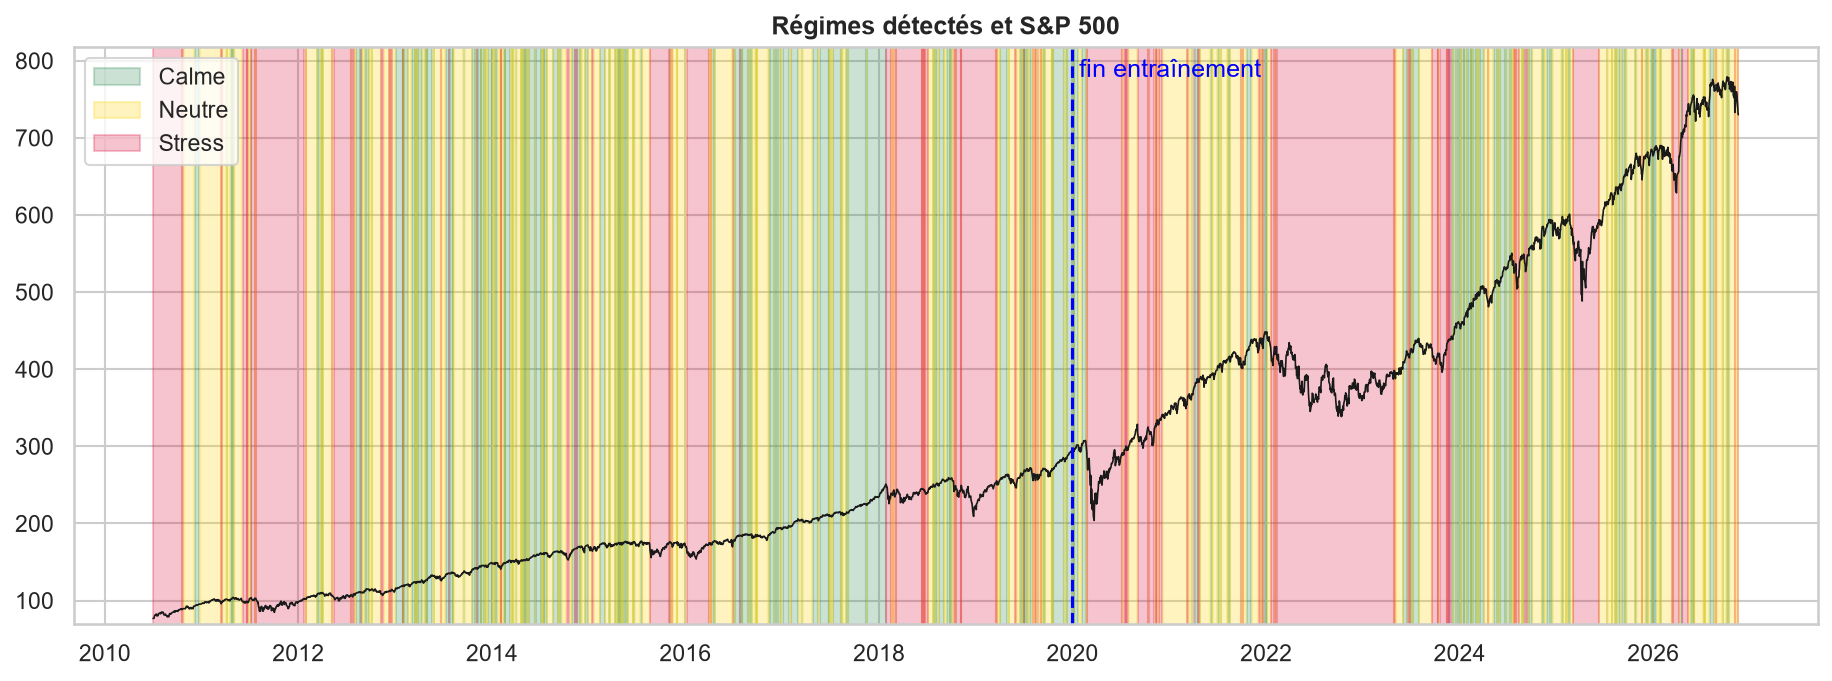
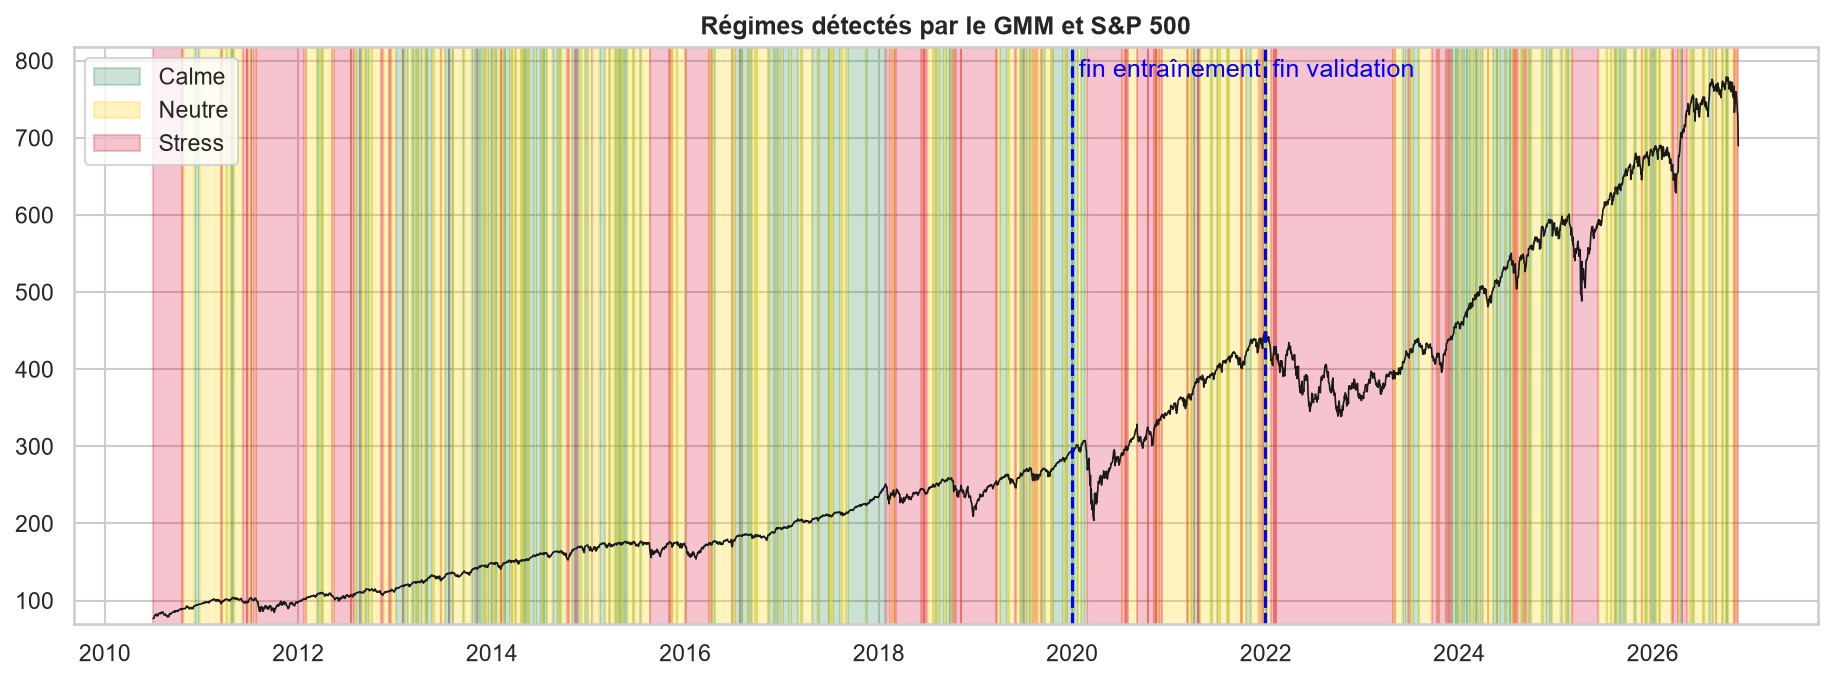
Notebook v4 : section 5a agent Regime (4 familles de clustering, indices, dendrogramme, description, validation economique, transitions)

Changed region(s): [[0.1867, 0.0, 0.9645, 0.9251], [0.7778, 0.9559, 0.809, 0.9868]]

diff --git a/tools/sections/s05_regime_a.py b/tools/sections/s05_regime_a.py
@@ -1,0 +1,170 @@
+from cellules import code, md
+
+CELLS = [
+md(r"""
+## 5. Agent Régime et Agent Alerte – apprentissage non supervisé
+
+### 5.1 Objectif et variables
+L'agent Régime classe chaque journée de marché en **régimes** (Calme / Neutre / Stress) **sans étiquette** : c'est un problème de **clustering** (cours 2). L'état du marché à la date *t* est décrit par 5 variables **stationnaires** :
+- rendement du S&P 500 sur 1 mois ;
+- log-volatilité réalisée du S&P 500 sur 1 mois ;
+- drawdown du S&P 500 (écart au plus haut sur 1 an) ;
+- log du VIX (volatilité implicite) ;
+- variation sur 3 mois du spread de crédit Baa − Trésor.
+
+**Pourquoi des variables stationnaires** : la version 1 du projet utilisait des niveaux (pente de courbe, spread). La courbe des taux s'est inversée de 2022 à 2024, un niveau jamais vu à l'entraînement, et le modèle classait alors 91 % du test en « Stress ». Les logarithmes et les variations restent dans la plage de l'entraînement.
+
+Les modèles sont ajustés sur **2011-2019 uniquement**, après standardisation apprise sur cette période, puis appliqués date par date (filtrage, sans regarder le futur).
+
+### 5.2 Les quatre familles de clustering du cours
+| Famille | Méthode | Principe | Nombre de groupes |
+|---|---|---|---|
+| Partition | **K-means** | minimise l'inertie intra-classe $J=\frac1n\sum_i\lVert x_i-\mu_{c^{(i)}}\rVert^2$ | fixé (coude, silhouette) |
+| Hiérarchique | **CAH, critère de Ward** | fusionne à chaque étape les deux groupes dont la fusion augmente le moins l'inertie intra : $\frac{n_a n_b}{n_a+n_b}d^2(\mu_a,\mu_b)$ | choisi en coupant le dendrogramme |
+| Densité | **DBSCAN** | un groupe = une zone dense ; les points isolés sont du **bruit** | déterminé par ε et min_samples |
+| Probabiliste | **Mélange gaussien (GMM)** estimé par **EM** | $p(x)=\sum_k\pi_k\,\mathcal N(x;\mu_k,\Sigma_k)$ ; maximise la log-vraisemblance | fixé (critère BIC) |
+
+**Règle fixée à l'avance** : l'agent Régime doit fournir des **probabilités d'appartenance** $\gamma_{ik}$ (affichées dans l'application, et réutilisées comme variables en 5.5). Seul le GMM en produit : c'est donc lui qui est utilisé par le système. Les trois autres méthodes servent de **comparaison** (indices de qualité) et de **contrôle de robustesse** (les régimes trouvés concordent-ils ?).
+"""),
+code(r"""
+from scipy.cluster.hierarchy import dendrogram
+from sklearn.preprocessing import StandardScaler
+from sklearn.metrics import adjusted_rand_score
+from src.features import compute_market_features, REGIME_FEATURES
+from src.regimes import (kmeans_elbow, gmm_bic, k_distance, fit_four_families, compare_families,
+                         describe_clusters, label_by_volatility)
+
+mkt_feat = compute_market_features(prices, macro)
+reg_cols = [c for c in REGIME_FEATURES if c in mkt_feat]
+M_tr = mkt_feat.loc[:TRAIN_END, reg_cols].dropna()
+reg_scaler = StandardScaler().fit(M_tr)
+Z_tr = reg_scaler.transform(M_tr)
+print("Jours d'entraînement :", len(M_tr), "| variables :", reg_cols)
+
+elbow = kmeans_elbow(Z_tr)
+bic = gmm_bic(Z_tr)
+kd = k_distance(Z_tr, k=10)
+EPS = float(np.quantile(kd, 0.90))     # règle : ε = 90e centile des distances au 10e voisin
+fig, axes = plt.subplots(1, 3, figsize=(18, 4.2))
+ax2 = axes[0].twinx()
+elbow["inertie intra J_w"].plot(ax=axes[0], marker="o", color="steelblue", label="inertie intra")
+elbow["silhouette"].plot(ax=ax2, marker="s", color="darkorange", label="silhouette")
+axes[0].set_title("K-means : méthode du coude et silhouette")
+axes[0].set_ylabel("Inertie intra-classe")
+ax2.set_ylabel("Silhouette")
+bic.plot(ax=axes[1], marker="o", color="purple")
+axes[1].set_title("GMM : critère BIC (plus bas = meilleur)")
+axes[2].plot(kd)
+axes[2].axhline(EPS, color="r", ls="--", label=f"ε = {EPS:.2f}")
+axes[2].set_title("DBSCAN : distance au 10e voisin (triée)")
+axes[2].legend()
+plt.tight_layout()
+savefig("15_regime_choix_k")
+plt.show()
+"""),
+md(r"""
+**Choix K = 3** : le coude de K-means est peu marqué et le BIC du GMM continue de baisser au-delà de 3 (avec 2 400 jours, des groupes plus fins sont toujours un peu plus vraisemblables). On retient **3 régimes**, nombre directement **interprétable** et utilisable par un conseiller (Calme / Neutre / Stress). Le cours le rappelle : il faut choisir un nombre de groupes qui « met en lumière des structures intéressantes », pas seulement celui qui optimise un critère.
+"""),
+code(r"""
+K = 3
+fitted_cl = fit_four_families(Z_tr, k=K, eps=EPS, min_samples=10)
+plt.figure(figsize=(12, 4))
+dendrogram(fitted_cl["CAH (Ward)"][0], truncate_mode="lastp", p=30, color_threshold=None)
+plt.title("CAH (Ward) : dendrogramme (30 derniers regroupements)")
+plt.ylabel("Distance de fusion (Ward)")
+savefig("15b_regime_dendrogramme")
+plt.show()
+
+cl_scores = compare_families(Z_tr, fitted_cl)
+gmm_lab = fitted_cl["GMM (EM)"][1]
+cl_scores["accord avec le GMM (indice de Rand ajusté)"] = [
+    adjusted_rand_score(gmm_lab[lab >= 0], lab[lab >= 0]) for _, (_, lab) in fitted_cl.items()]
+cl_scores.to_csv(RESULTS_DIR / "agent_regime_comparaison_clustering.csv")
+RESULTS["regime_clustering"] = cl_scores
+cl_scores
+"""),
+md(r"""
+**Comment lire les indices** : **silhouette** (entre −1 et 1, ↑ = groupes compacts et séparés), **Davies-Bouldin** (↓), **Calinski-Harabasz** (↑), **% d'inertie expliquée** $J_b/(J_w+J_b)$ (↑). Pour DBSCAN, les indices sont calculés sans les points de bruit.
+
+Le GMM obtient en général des indices géométriques moins bons que K-means et la CAH : c'est attendu. Ses groupes sont des **ellipses qui se chevauchent** (covariances différentes par régime), alors que ces indices favorisent des groupes sphériques bien séparés. Le GMM capte en revanche une structure que les autres ignorent : le régime de stress est **beaucoup plus dispersé** que le régime calme. L'**indice de Rand ajusté** mesure l'accord entre partitions (1 = identiques, 0 = accord dû au hasard).
+
+### 5.3 Description des régimes du GMM (cours 2, « Décrire les clusters »)
+"""),
+code(r"""
+gmm = fitted_cl["GMM (EM)"][0]
+centers = pd.DataFrame(reg_scaler.inverse_transform(gmm.means_), columns=reg_cols)
+label_map = label_by_volatility(centers, "mkt_logvol_21")
+prof = describe_clusters(M_tr, gmm_lab)
+prof.index = [label_map.get(i, i) if isinstance(i, (int, np.integer)) else i for i in prof.index]
+prof["vol. annualisée"] = np.exp(prof["mkt_logvol_21"])
+prof.loc["p-valeur Kruskal-Wallis", "vol. annualisée"] = np.nan
+display(prof)
+
+M_all = mkt_feat[reg_cols].dropna()
+proba_all = pd.DataFrame(gmm.predict_proba(reg_scaler.transform(M_all)), index=M_all.index)
+proba_all.columns = [label_map[c] for c in proba_all.columns]
+proba_all = proba_all.T.groupby(level=0).sum().T[["Calme", "Neutre", "Stress"]]
+reg_series = proba_all.idxmax(axis=1)
+"""),
+md(r"""
+### 5.4 Validation économique hors échantillon
+Un bon régime doit **annoncer** le risque à venir. On mesure, après chaque jour classé dans un régime, la volatilité réalisée et le rendement du S&P 500 **sur le mois suivant**. Le **η²** (part de la variance de la volatilité future expliquée par le régime) résume le pouvoir informatif du découpage. La validation 2020-2021 sert à juger le modèle ; les chiffres du test sont seulement **descriptifs** et ne servent à aucun choix.
+"""),
+code(r"""
+fwd_ret_spy = prices["SPY"].shift(-21) / prices["SPY"] - 1
+fwd_vol_spy = returns["SPY"].rolling(21).std().shift(-21) * np.sqrt(252)
+
+
+def regime_eval(start, end):
+    idx = reg_series.loc[start:end].index
+    df = pd.DataFrame({"régime": reg_series.loc[idx], "rdt SPY 21 j futur": fwd_ret_spy.reindex(idx),
+                       "vol. réalisée future": fwd_vol_spy.reindex(idx)}).dropna()
+    tab = df.groupby("régime").agg(fréquence=("régime", "size"), **{
+        "rdt moyen 21 j futur": ("rdt SPY 21 j futur", "mean"), "vol. future moyenne": ("vol. réalisée future", "mean")})
+    tab["fréquence"] /= tab["fréquence"].sum()
+    gm = df["vol. réalisée future"].mean()
+    eta2 = sum(len(g) * (g["vol. réalisée future"].mean() - gm) ** 2 for _, g in df.groupby("régime")) / \
+        ((df["vol. réalisée future"] - gm) ** 2).sum()
+    return tab.reindex(["Calme", "Neutre", "Stress"]), float(eta2)
+
+
+reg_eval = {}
+for nom, (a, b) in {"Entraînement 2011-2019": (None, TRAIN_END), "Validation 2020-2021": ("2020-01-01", VAL_END),
+                    "Test 2022 → (descriptif)": ("2022-01-01", None)}.items():
+    tab, eta2 = regime_eval(a, b)
+    print(f"{nom} : η² = {eta2:.2f}")
+    display(tab)
+    reg_eval[nom] = tab.assign(eta2=eta2)
+reg_tab = pd.concat(reg_eval, names=["période", "régime"])
+reg_tab.to_csv(RESULTS_DIR / "agent_regime_validation.csv")
+RESULTS["regime"] = reg_tab
+assert reg_eval["Validation 2020-2021"]["fréquence"].max() < 0.8, "Un régime domine : vérifier la stationnarité"
+"""),
+code(r"""
+colors = {"Calme": "seagreen", "Neutre": "gold", "Stress": "crimson"}
+fig, ax = plt.subplots(figsize=(15, 5))
+spy = prices["SPY"].reindex(reg_series.index)
+ax.plot(spy.index, spy.values, color="k", lw=.8)
+for reg, col in colors.items():
+    ax.fill_between(spy.index, 0, spy.max() * 1.05, where=(reg_series == reg).values, color=col, alpha=.25, label=reg)
+ax.set_ylim(spy.min() * .9, spy.max() * 1.05)
+for d, lab in ((TRAIN_END, "fin entraînement"), (VAL_END, "fin validation")):
+    ax.axvline(pd.Timestamp(d), color="blue", ls="--")
+    ax.text(pd.Timestamp(d), spy.max(), f" {lab}", color="blue")
+ax.legend(loc="upper left")
+ax.set_title("Régimes détectés par le GMM et S&P 500")
+savefig("16_regimes")
+plt.show()
+trans = pd.crosstab(reg_series.shift(1), reg_series, normalize="index")
+display(trans.rename_axis("de \\ vers").style.format("{:.1%}"))
+
+regime_bundle = {"model": gmm, "scaler": reg_scaler, "features": reg_cols, "fill": M_tr.median().to_dict(),
+                 "label_map": label_map}
+mkt_feat.to_csv(DATA_PROC / "market_features.csv")
+reg_series.rename("regime").to_csv(DATA_PROC / "regimes.csv")
+chrono("5a. Agent Régime")
+"""),
+md(r"""
+**Lecture** : sur les trois périodes, le régime « Stress » est suivi de la volatilité future la plus élevée : l'agent **repère bien le risque**. Une limite apparaît en validation : le régime « Calme » y est suivi d'une volatilité plus forte que le régime « Neutre ». C'est l'effet de **février 2020** : le marché était calme juste avant le krach du COVID. L'agent **réagit** au risque (avec quelques jours de retard) mais ne l'**anticipe** pas : aucune variable de marché ne pouvait annoncer une pandémie. En revanche, il n'annonce pas de baisse : les périodes de stress ont souvent été suivies de **rebonds** (rendement futur moyen plus élevé), ce qui rendra coûteuse une réduction systématique de l'exposition en régime de stress (point arbitré sur la validation en section 7). La matrice de transition montre une forte **persistance** des régimes (diagonale proche de 1), ce qui rend la détection en temps réel exploitable.
+"""),
+]
